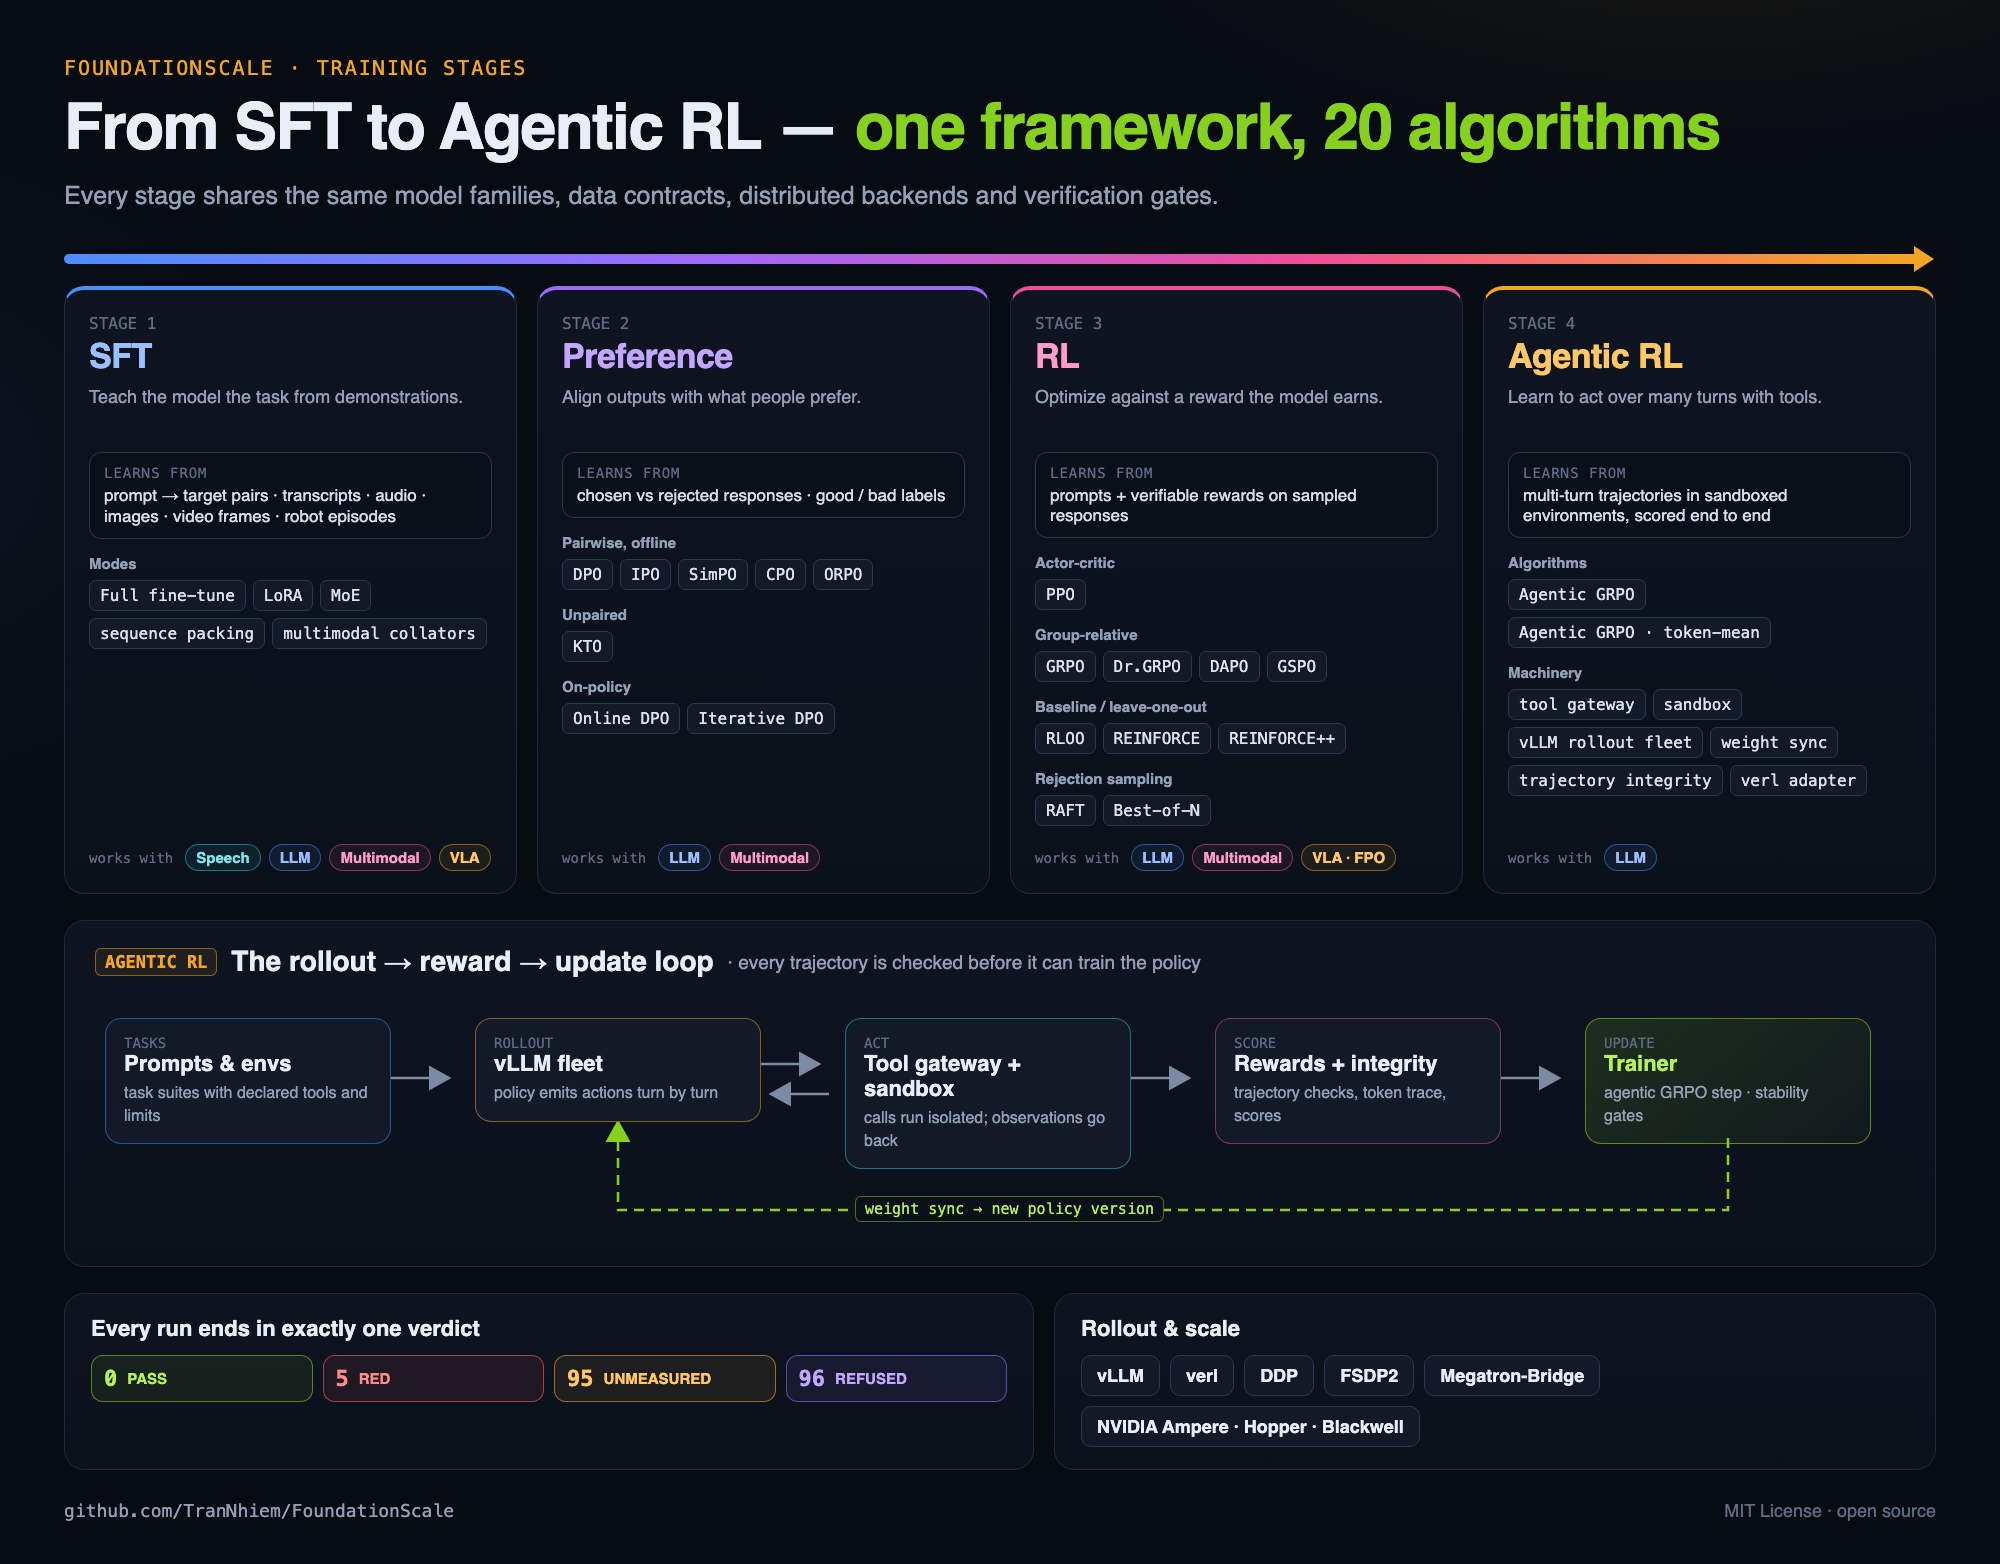
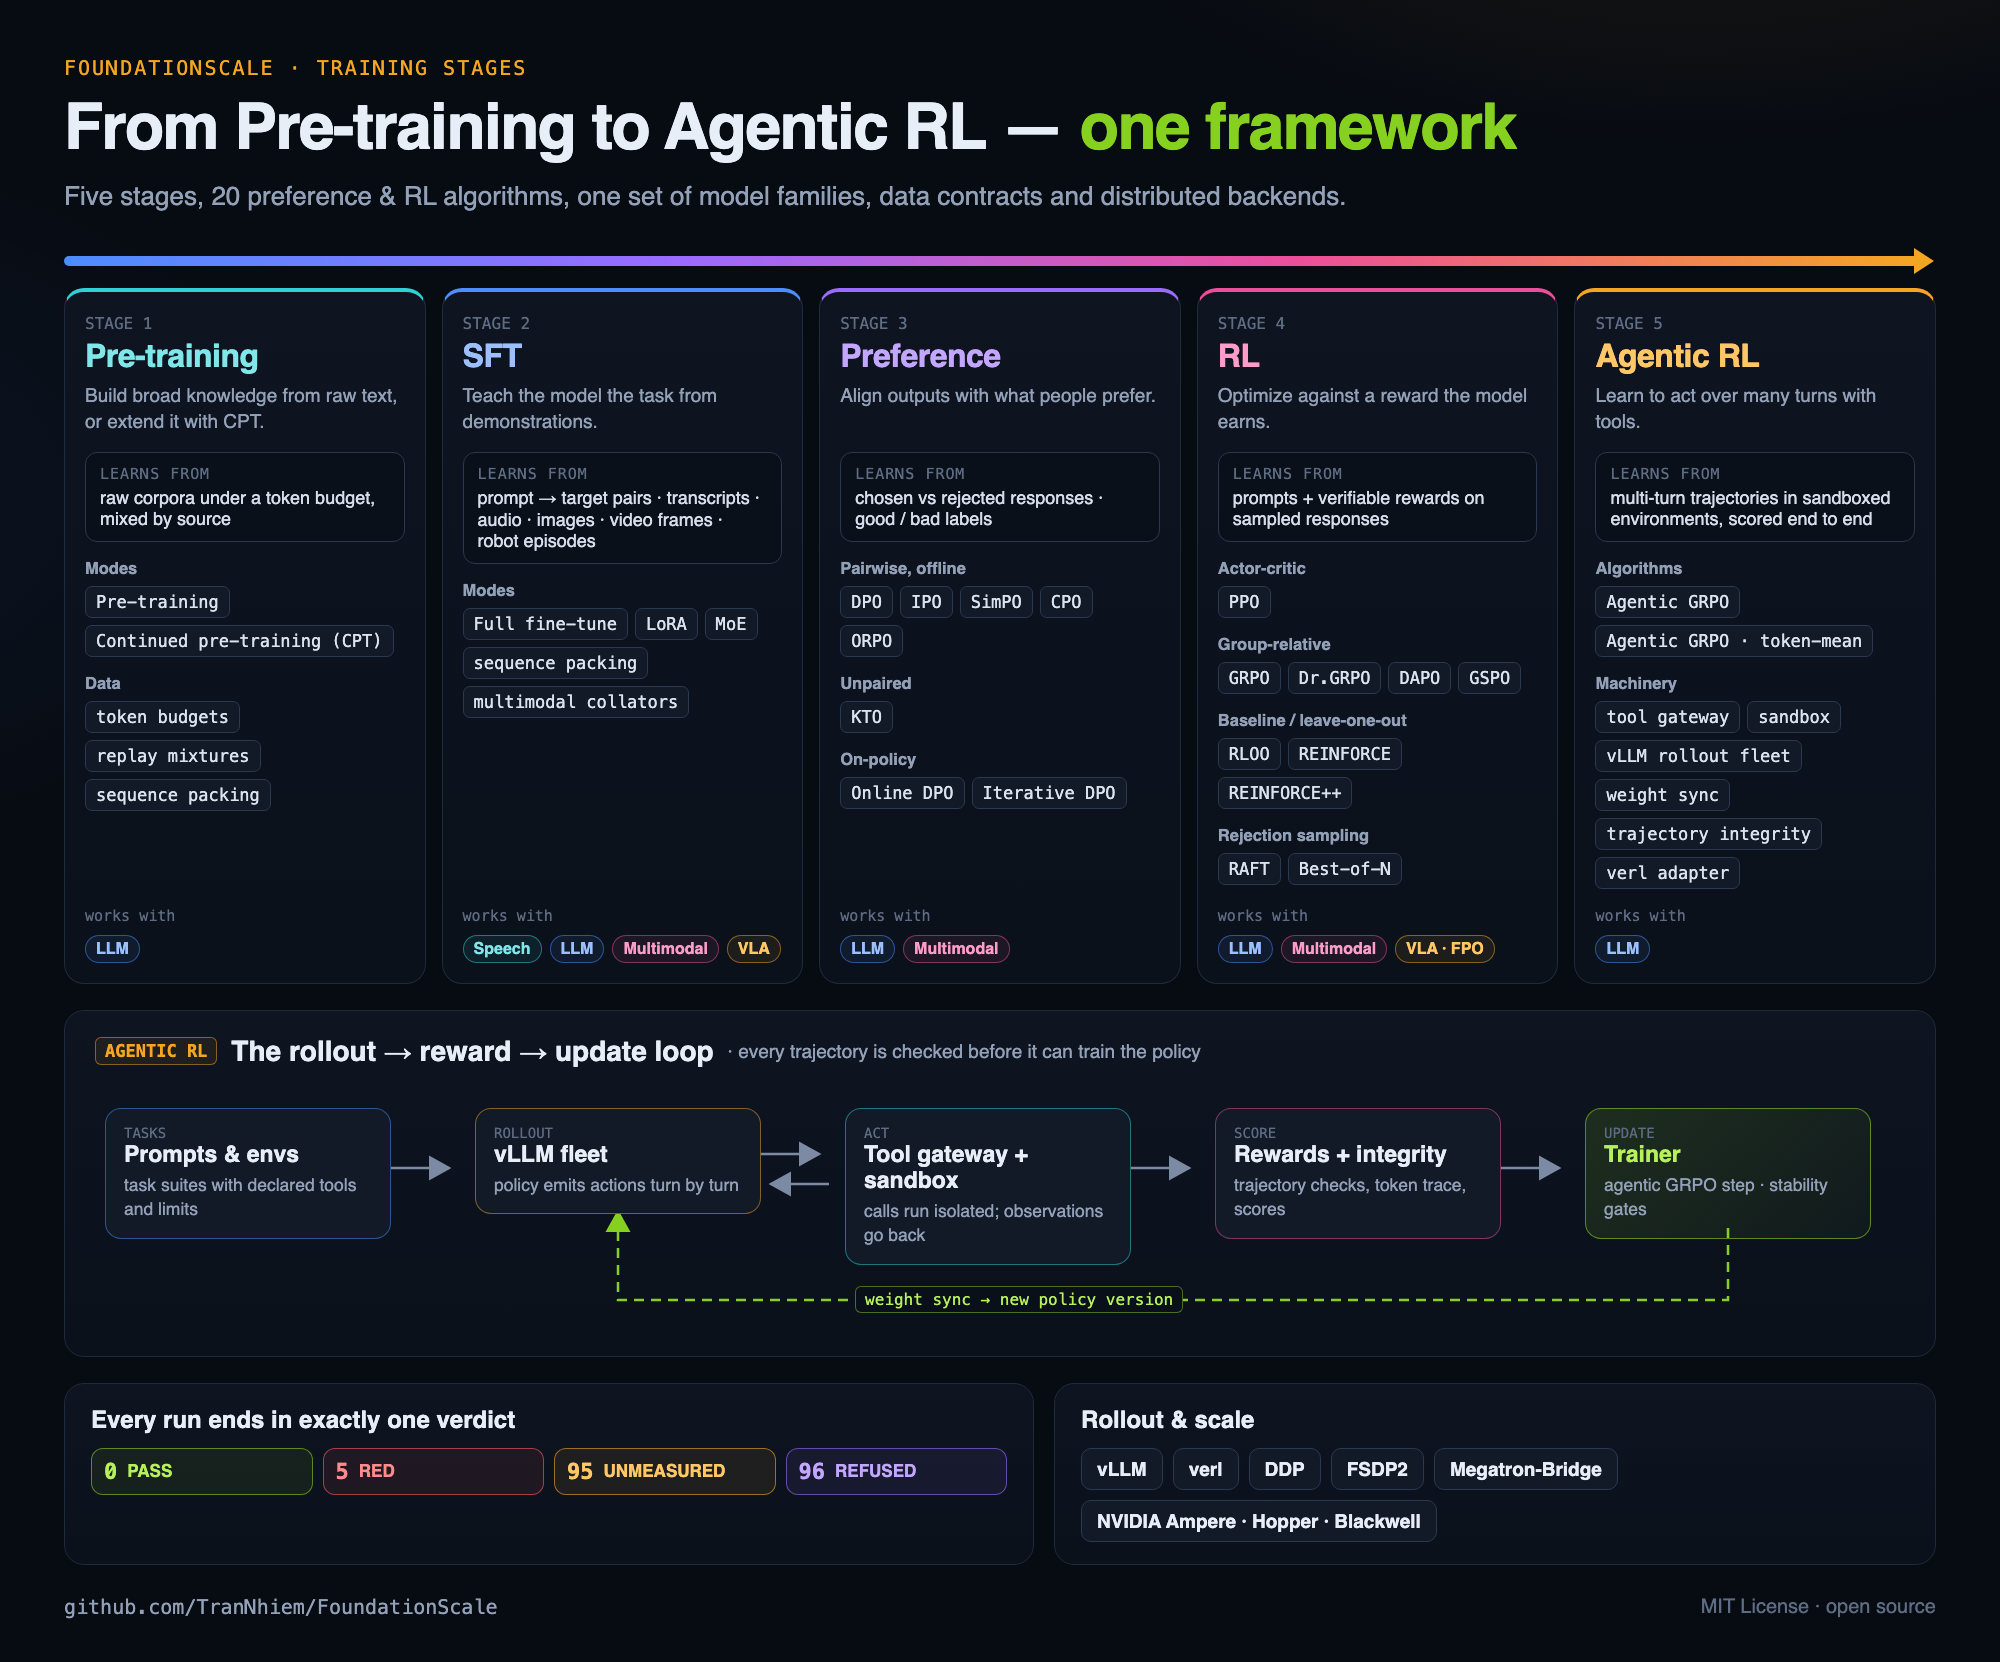
docs: training-stages figure adds the pre-training & CPT stage
Matches the hero: five stages (pre-training, SFT, preference, RL, agentic
RL), with larger text for the five-column layout.

diff --git a/assets/training_stages.html b/assets/training_stages.html
@@ -22,7 +22,7 @@
   .lead{font-size:25px;color:var(--dim);margin-top:14px;line-height:1.45}
   .bar{height:10px;border-radius:10px;margin:40px 18px 22px 0;position:relative;background:linear-gradient(90deg,var(--blue),var(--violet),var(--pink),var(--amber))}
   .bar:after{content:"";position:absolute;right:-16px;top:-8px;border-left:20px solid var(--amber);border-top:13px solid transparent;border-bottom:13px solid transparent}
-  .cols{display:grid;grid-template-columns:repeat(4,1fr);gap:20px}
+  .cols{display:grid;grid-template-columns:repeat(5,1fr);gap:16px}
   .col{background:linear-gradient(180deg,var(--panel),#0b111b);border:1px solid var(--line);border-top:4px solid;border-radius:20px;padding:24px 24px 22px;display:flex;flex-direction:column}
   .col .no{font-family:var(--mono);font-size:16px;color:var(--mute)}
   .col h2{font-size:34px;font-weight:900;margin-top:4px;letter-spacing:-.5px}
@@ -70,25 +70,52 @@
   .sc .c2{font-size:18px;font-weight:600;padding:9px 15px;border-radius:10px;background:var(--panel2);border:1px solid var(--line2)}
   footer{display:flex;justify-content:space-between;margin-top:30px;font-size:18px;color:var(--mute)}
   footer .gh{font-family:var(--mono);color:var(--dim)}
+  /* readability for five columns */
+  .col{padding:22px 20px 20px}
+  .col h2{font-size:32px}
+  .col .q{font-size:19px;min-height:54px}
+  .sig .t{font-size:15px}
+  .sig .v{font-size:18px}
+  .grp .gt{font-size:16.5px}
+  .a{font-size:17px;padding:5px 10px}
+  .f{font-size:16px}
+  .fams .ft{font-size:15px}
+  .lead{font-size:26px}
+  .bx .bn{font-size:23px}
+  .bx .bd{font-size:17.5px}
+  .elab{font-size:16px}
+  .sbox h4{font-size:24px}
+  .vd .n{font-size:17px}
+  .sc .c2{font-size:19px}
+  footer{font-size:20px}
+  .fams .ft{width:100%;margin-bottom:2px}
 </style>
 </head>
 <body>
 <div id="poster">
   <div class="eyebrow">FOUNDATIONSCALE · TRAINING STAGES</div>
-  <h1>From SFT to Agentic RL — <span class="s">one framework, 20 algorithms</span></h1>
-  <div class="lead">Every stage shares the same model families, data contracts, distributed backends and verification gates.</div>
+  <h1>From Pre-training to Agentic RL — <span class="s">one framework</span></h1>
+  <div class="lead">Five stages, 20 preference &amp; RL algorithms, one set of model families, data contracts and distributed backends.</div>
 
   <div class="bar"></div>
   <div class="cols">
+    <div class="col" style="border-top-color:var(--cyan)">
+      <div class="no">STAGE 1</div><h2 style="color:#7fe6ea">Pre-training</h2>
+      <div class="q">Build broad knowledge from raw text, or extend it with CPT.</div>
+      <div class="sig"><div class="t">LEARNS FROM</div><div class="v">raw corpora under a token budget, mixed by source</div></div>
+      <div class="grp"><div class="gt">Modes</div><div class="chips"><span class="a">Pre-training</span><span class="a">Continued pre-training (CPT)</span></div></div>
+      <div class="grp"><div class="gt">Data</div><div class="chips"><span class="a">token budgets</span><span class="a">replay mixtures</span><span class="a">sequence packing</span></div></div>
+      <div class="fams"><span class="ft">works with</span><span class="f ll">LLM</span></div>
+    </div>
     <div class="col" style="border-top-color:var(--blue)">
-      <div class="no">STAGE 1</div><h2 style="color:#9cc0ff">SFT</h2>
+      <div class="no">STAGE 2</div><h2 style="color:#9cc0ff">SFT</h2>
       <div class="q">Teach the model the task from demonstrations.</div>
       <div class="sig"><div class="t">LEARNS FROM</div><div class="v">prompt → target pairs · transcripts · audio · images · video frames · robot episodes</div></div>
       <div class="grp"><div class="gt">Modes</div><div class="chips"><span class="a">Full fine-tune</span><span class="a">LoRA</span><span class="a">MoE</span><span class="a">sequence packing</span><span class="a">multimodal collators</span></div></div>
       <div class="fams"><span class="ft">works with</span><span class="f sp">Speech</span><span class="f ll">LLM</span><span class="f mm">Multimodal</span><span class="f vl">VLA</span></div>
     </div>
     <div class="col" style="border-top-color:var(--violet)">
-      <div class="no">STAGE 2</div><h2 style="color:#c3a6ff">Preference</h2>
+      <div class="no">STAGE 3</div><h2 style="color:#c3a6ff">Preference</h2>
       <div class="q">Align outputs with what people prefer.</div>
       <div class="sig"><div class="t">LEARNS FROM</div><div class="v">chosen vs rejected responses · good / bad labels</div></div>
       <div class="grp"><div class="gt">Pairwise, offline</div><div class="chips"><span class="a">DPO</span><span class="a">IPO</span><span class="a">SimPO</span><span class="a">CPO</span><span class="a">ORPO</span></div></div>
@@ -97,7 +124,7 @@
       <div class="fams"><span class="ft">works with</span><span class="f ll">LLM</span><span class="f mm">Multimodal</span></div>
     </div>
     <div class="col" style="border-top-color:var(--pink)">
-      <div class="no">STAGE 3</div><h2 style="color:#ff9cc9">RL</h2>
+      <div class="no">STAGE 4</div><h2 style="color:#ff9cc9">RL</h2>
       <div class="q">Optimize against a reward the model earns.</div>
       <div class="sig"><div class="t">LEARNS FROM</div><div class="v">prompts + verifiable rewards on sampled responses</div></div>
       <div class="grp"><div class="gt">Actor-critic</div><div class="chips"><span class="a">PPO</span></div></div>
@@ -107,7 +134,7 @@
       <div class="fams"><span class="ft">works with</span><span class="f ll">LLM</span><span class="f mm">Multimodal</span><span class="f vl">VLA · FPO</span></div>
     </div>
     <div class="col" style="border-top-color:var(--amber)">
-      <div class="no">STAGE 4</div><h2 style="color:#ffc766">Agentic RL</h2>
+      <div class="no">STAGE 5</div><h2 style="color:#ffc766">Agentic RL</h2>
       <div class="q">Learn to act over many turns with tools.</div>
       <div class="sig"><div class="t">LEARNS FROM</div><div class="v">multi-turn trajectories in sandboxed environments, scored end to end</div></div>
       <div class="grp"><div class="gt">Algorithms</div><div class="chips"><span class="a">Agentic GRPO</span><span class="a">Agentic GRPO · token-mean</span></div></div>

diff --git a/README.md b/README.md
@@ -202,7 +202,7 @@ workloads on GB200 (Gemma-4 E4B-it) on 2026-10-07. [-> FoundationSkills/README.m
 ## 7. Supported training workflows
 
 <p align="center">
-  <img src="assets/training_stages.png" alt="Training stages: SFT, preference, RL and agentic RL with their algorithms, and the agentic RL rollout loop" width="100%">
+  <img src="assets/training_stages.png" alt="Training stages: pre-training, SFT, preference, RL and agentic RL with their algorithms, and the agentic RL rollout loop" width="100%">
 </p>
 
 * **Via the package**: any workflow `transformers.Trainer` supports, run under the gate
